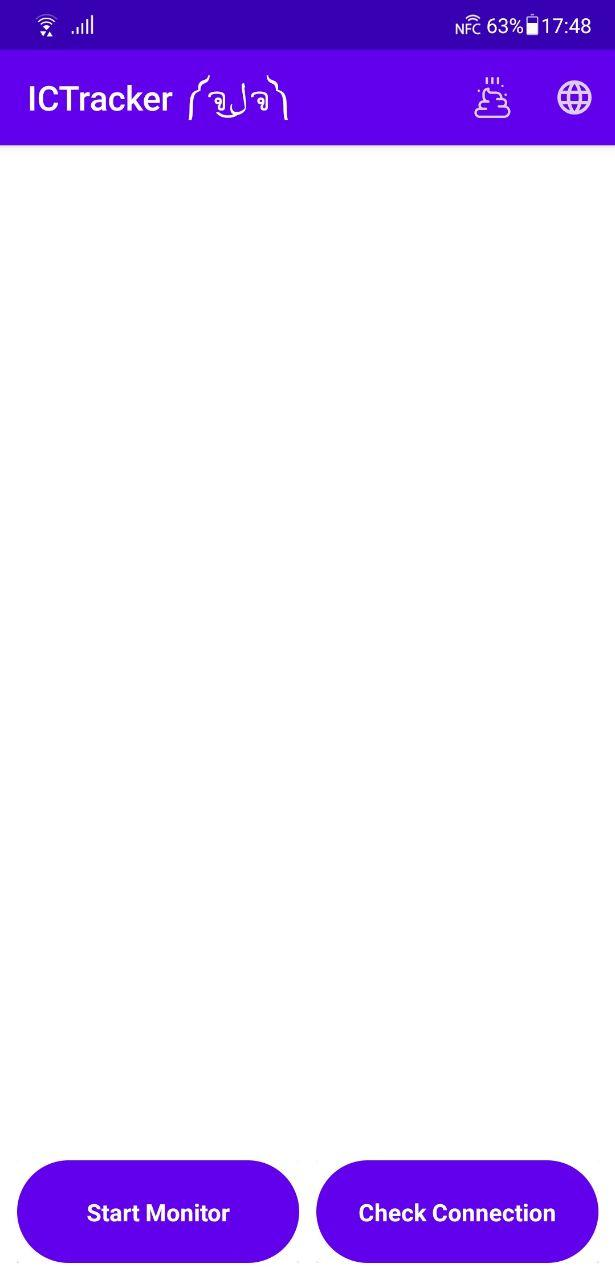
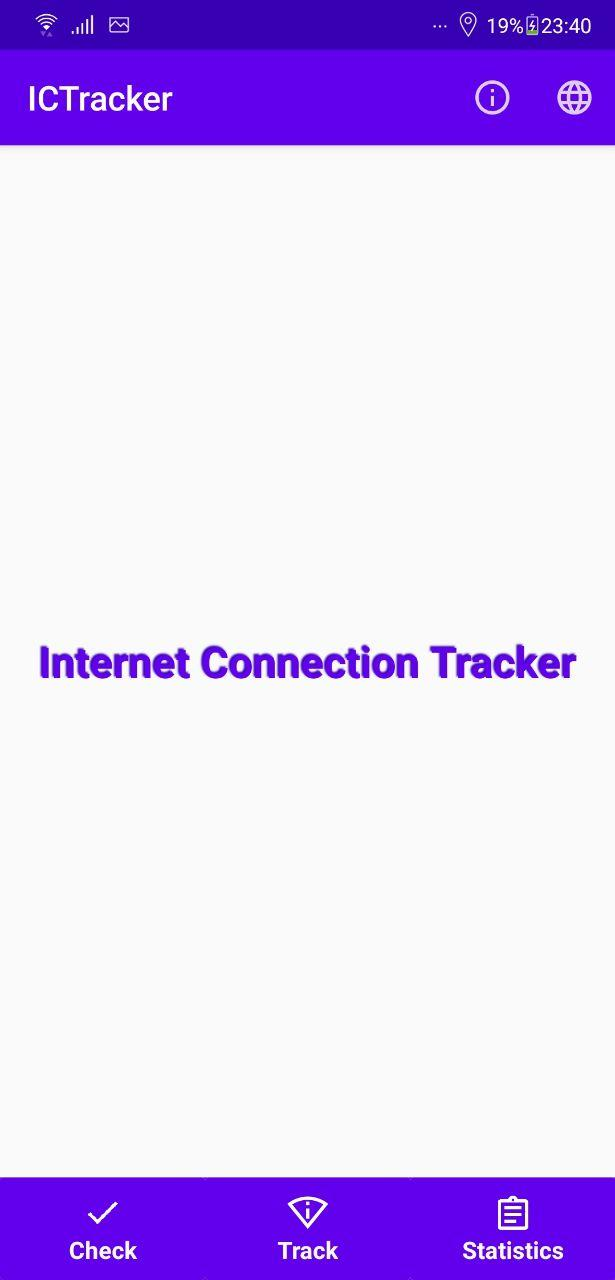
updated readme

diff --git a/README.md b/README.md
@@ -1,14 +1,15 @@
 ## Internet Connection Tracker (ICT)
 
-My coursework ༼ຈل͜ຈ༽.
-<!--|                  Main window                   |              Monitoring 4G/LTE             |                 Checking Connection                 |-->
-<!--|:----------------------------------------------:|:------------------------------------------:|:---------------------------------------------------:|-->
-<!--| <img src="images/main_window.jpg" width="250"> | <img src="images/monitor.jpg" width="250"> | <img src="images/check_connection.jpg" width="250"> |-->
+My second course work in HSE, Faculty of Computer Science, Software Engineering.
 
-<!--**This application monitors a chosen type of internet connection on your android smartphone (like on second image). When this connection appears, you'll get appropriate notification:**-->
+|                  Main window                   |              Statistics window                |
+|:----------------------------------------------:|:---------------------------------------------:|
+| <img src="images/main_window.jpg" width="250"> | <img src="images/statistics.jpg" width="250"> |
 
-<!--|               English notification               |                Russian notification               |-->
-<!--|:------------------------------------------------:|:-------------------------------------------------:|-->
-<!--| <img src="images/english_alert.jpg" width="392"> | <img src="images/russian_alert.jpg" width="392">  |-->
+This application tracks a chosen type of internet connection on your android smartphone. When this connection appears, you'll get appropriate notification:
 
-<!--**Application supports two languages: russian and english.**-->
+|                 Track window                    |                  Tracking                    |                   Notification                   |
+|:-----------------------------------------------:|:--------------------------------------------:|:------------------------------------------------:|
+| <img src="images/track_window.jpg" width="250"> | <img src="images/tracking.jpg" width="250">  | <img src="images/notification.jpg" width="250">  |
+
+Application supports two languages: russian and english.
